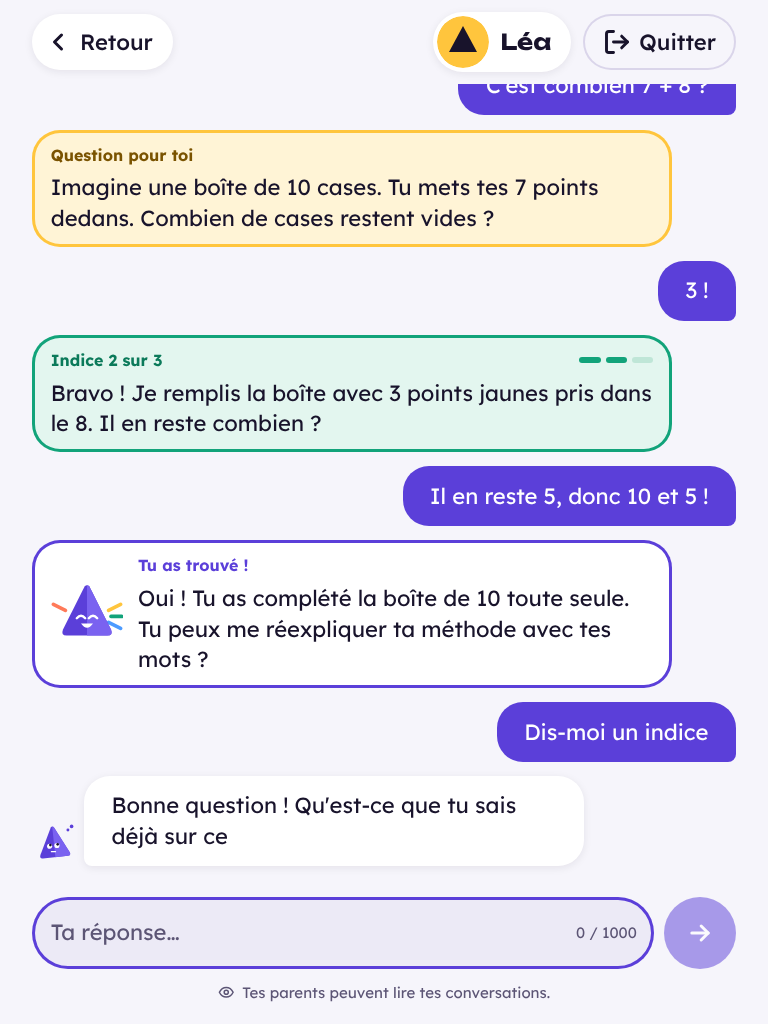
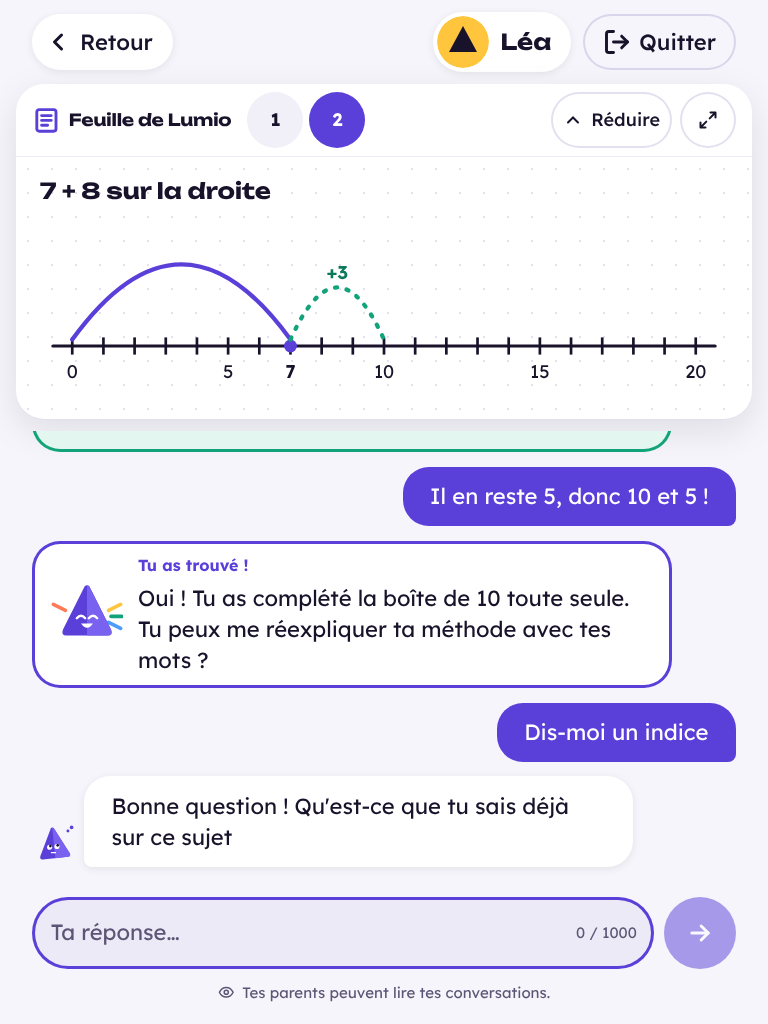
docs: visual aids in design system, handoff, architecture and security; captures
Claude-Session: https://claude.ai/code/session_01BmxzPKqVC1ZFjKGXc9LjY7

diff --git a/docs/DESIGN_HANDOFF.md b/docs/DESIGN_HANDOFF.md
@@ -42,7 +42,7 @@ Design source : artefact « Lumio — Design Prisme + Feuille » (5 planches).
 | Identité — palette, typo, mascotte, signatures du chat | toutes | `styles/tokens.css`, `styles/index.css`, `components/Mascot.tsx`, `components/PedagogyCard.tsx` (+ Question/Hint/Example), `public/brand/`, `public/fonts/` |
 | Chat 6-8 — tablette paysage / portrait | `/chat/:id` | `features/kid/KidChatPage.tsx` (branche `6-8`), `components/ChatBubble.tsx`, `ChatInput.tsx`, `TutorMessage.tsx`, `KidChrome.tsx` |
 | Chat 9-14 — tablette paysage | `/chat/:id` | `features/kid/KidChatPage.tsx` (branche `9-14` : rail + en-tête) |
-| Composant Feuille — catalogue et états | `/chat/:id` (panneau) | **PR « supports visuels »** (voir `docs/VISUAL_AIDS.md`) ; sans dessin, la feuille est repliée et le chat prend toute la largeur |
+| Composant Feuille — catalogue et états | `/chat/:id` (panneau), `/admin/conversations/:id` | `components/LumioSheet.tsx`, `components/visual/*` (voir `docs/VISUAL_AIDS.md`) ; sans dessin, pas de feuille et le chat prend toute la largeur |
 | (non dessinés, extrapolés dans le même langage) | `/select`, `/pin/:id`, `/chat`, `/admin/*` | `features/auth/*`, `features/kid/KidConversationsPage.tsx`, `features/admin/*`, `components/AlertCard.tsx`, `ScheduleEditor.tsx`, `QuotaIndicator.tsx`, `Illustration.tsx` |
 
 Les écrans restent des pages (`*Page.tsx`, `Admin*.tsx`) : le dépôt n'a pas de
@@ -281,6 +281,7 @@ celles qu'il implique.
 | Distinguer la réponse de sécurité après rechargement | **Fait** : `kind = "safety"` sur les réponses prédéfinies critiques |
 | Exposer `locked` / `hors_plage_horaire` au choix du profil | Déjà dans l'API ; ajouté au type front et aux mocks |
 | Plages horaires éditables | **Fait** : validation `plages_horaires` (jours, HH:MM, début < fin, pas de chevauchement, 4 max) |
-| Feuille de Lumio (dessins structurés) | **PR séparée** « supports visuels » (`docs/VISUAL_AIDS.md`) |
+| Feuille de Lumio (dessins structurés) | **Fait (prototype, drapeau)** : outil `show_visual`, `message.visual`, `profile.supports_visuels` — `docs/VISUAL_AIDS.md` |
 | Étiquette de matière dans l'en-tête 9-14 (« Maths ») | **Reporté** : demande une classification de la conversation (appel LLM ou heuristique) et une colonne ; à décider avec les notes d'apprentissage |
-| Liens « Feuille 1 / Regarde la feuille 2 » dans les cartes | **Reporté** à la PR supports visuels (dépend des feuilles) |
+| Liens « Regarde la feuille n » dans les cartes | **Fait** |
+| Types `table` et `diagram` (schéma légendé) du catalogue | **Reportés** (cf. `docs/VISUAL_AIDS.md` §8) |

diff --git a/docs/design/DESIGN_SYSTEM.md b/docs/design/DESIGN_SYSTEM.md
@@ -142,6 +142,8 @@ Nouveaux :
 | `ScheduleEditor` | plages horaires du profil | sans restriction / valide / erreurs |
 | `Illustration` | états vides | 6 illustrations |
 | `KidChrome` | icônes et mention parents partagées | — |
+| `LumioSheet` | « Feuille de Lumio » : panneau blanc, onglets (pastilles 6-8 / « n · titre » 9-14), agrandir, repli portrait | 1 à n pages, repliée, agrandie |
+| `visual/VisualAid` | support visuel rendu en liste blanche + alt généré + repli d'erreur | `number_line`, `fraction_bars`, `chart` (barres/courbe), `shape` (rectangle/triangle/cercle), `timeline` |
 
 Showroom : `/__design/components` (mode maquette + dev uniquement, **absent du
 build** ; `mockServiceWorker.js` est aussi retiré de `dist/` par un plugin Vite).
@@ -158,6 +160,15 @@ build** ; `mockServiceWorker.js` est aussi retiré de `dist/` par un plugin Vite
   gauche → droite). Tout est coupé si `prefers-reduced-motion`.
 - Historique rechargé : pas d'animation de réussite (seulement les messages
   reçus pendant la session).
+
+## 7 bis. Feuille de Lumio (supports visuels)
+
+Voir `docs/VISUAL_AIDS.md`. Calques fixes (tokens `--color-sheet-*`, identiques
+dans tous les thèmes) : encre/prisme = ce qu'on sait ; menthe pointillé =
+ajouté par l'indice ; soleil pointillé + « ? » = case de l'enfant. La feuille
+est à droite du fil en paysage (≥ 1024 px), au-dessus en portrait (repliable).
+Chaque carte illustrée porte « Regarde la feuille n ». Jamais de feuille sur un
+message de sécurité.
 
 ## 8. Accessibilité — vérifications
 

diff --git a/docs/SECURITY.md b/docs/SECURITY.md
@@ -63,7 +63,11 @@ Lumio est un tuteur IA pour enfants de 6 à 14 ans. La sécurité des enfants es
    type incohérent est retiré (le message s'affiche sans mise en forme), il ne
    change jamais la règle « pas de réponse directe », y compris pour un indice
    de niveau 3
-5. Rewrite 1× max si nécessaire, sinon fallback prédéfini
+5. Supports visuels (si activés) : schéma strict en liste blanche (aucun SVG/HTML
+   du modèle, aucune URL), garde déterministe (le résultat d'un calcul posé par
+   l'enfant ne peut pas apparaître), données personnelles, revue par le garde de
+   sortie ; un visuel refusé est retiré, le texte part seul
+6. Rewrite 1× max si nécessaire, sinon fallback prédéfini
 
 ### Réponses prédéfinies
 Pour les cas critiques (détresse, auto-agression, maltraitance), **aucune génération LLM** : les réponses sont prédéfinies par tranche d'âge dans `safe_responses.yaml`, incluant les numéros d'urgence (119, 3018, 3114).

diff --git a/docs/ARCHITECTURE.md b/docs/ARCHITECTURE.md
@@ -66,6 +66,10 @@ START → input_guard → router ─┬─ critical → safe_response
   success / explanation, `hint_level` 1–3 pour les indices. Lecture tolérante :
   texte brut accepté sans type, JSON illisible relancé une fois puis fallback ;
   le JSON brut n'est jamais montré à l'enfant.
+- **supports visuels** (prototype, `VISUAL_AIDS_ENABLED` + `profile.supports_visuels`) :
+  outil `show_visual` lié au tuteur seulement si actif ; spécification validée
+  (`app/agent/visuals.py`), garde déterministe « pas de réponse dans le dessin »,
+  puis revue par `output_guard` ; tout échec ⇒ texte seul. Voir `docs/VISUAL_AIDS.md`.
 - **output_guard** : modération + classificateur de sortie sur le texte, avec le
   type déclaré (`type_ok` faux ⇒ le type est retiré, le message s'affiche
   normalement) ; rewrite 1× max, sinon fallback
